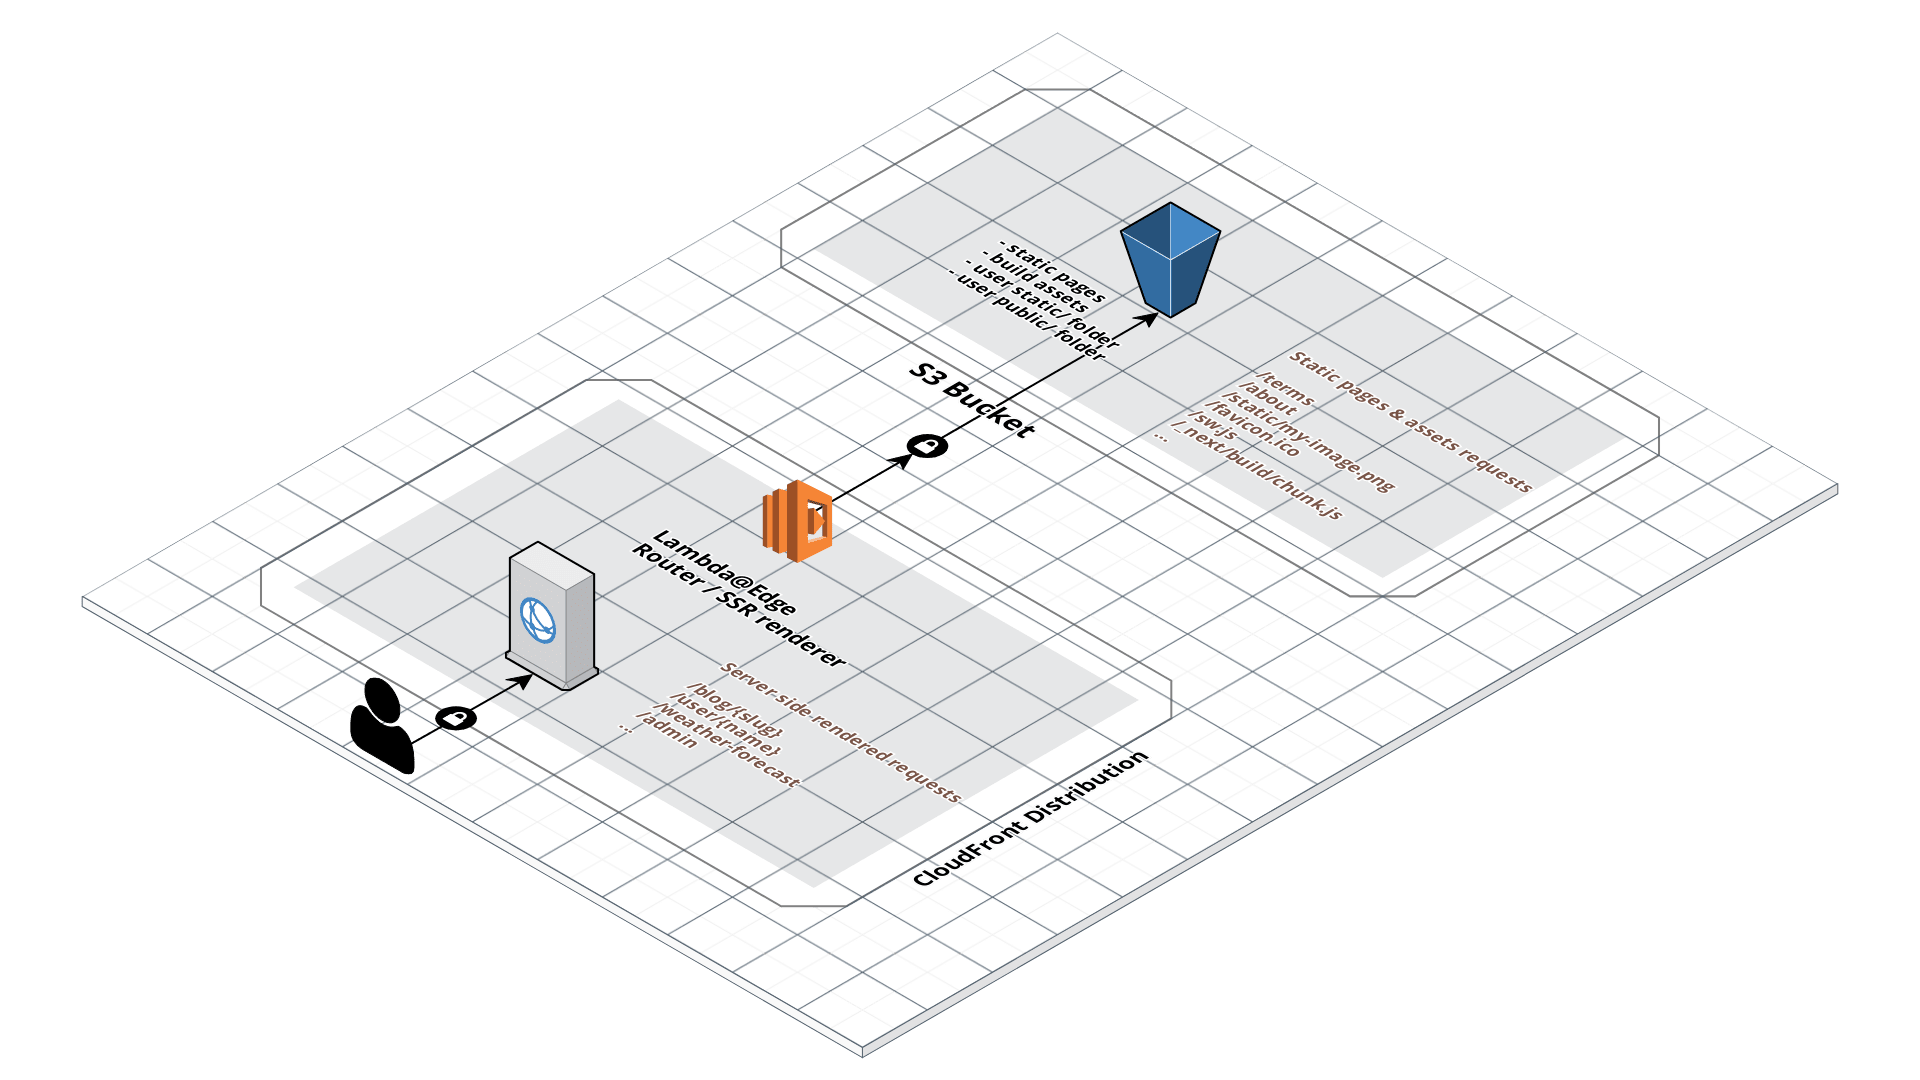
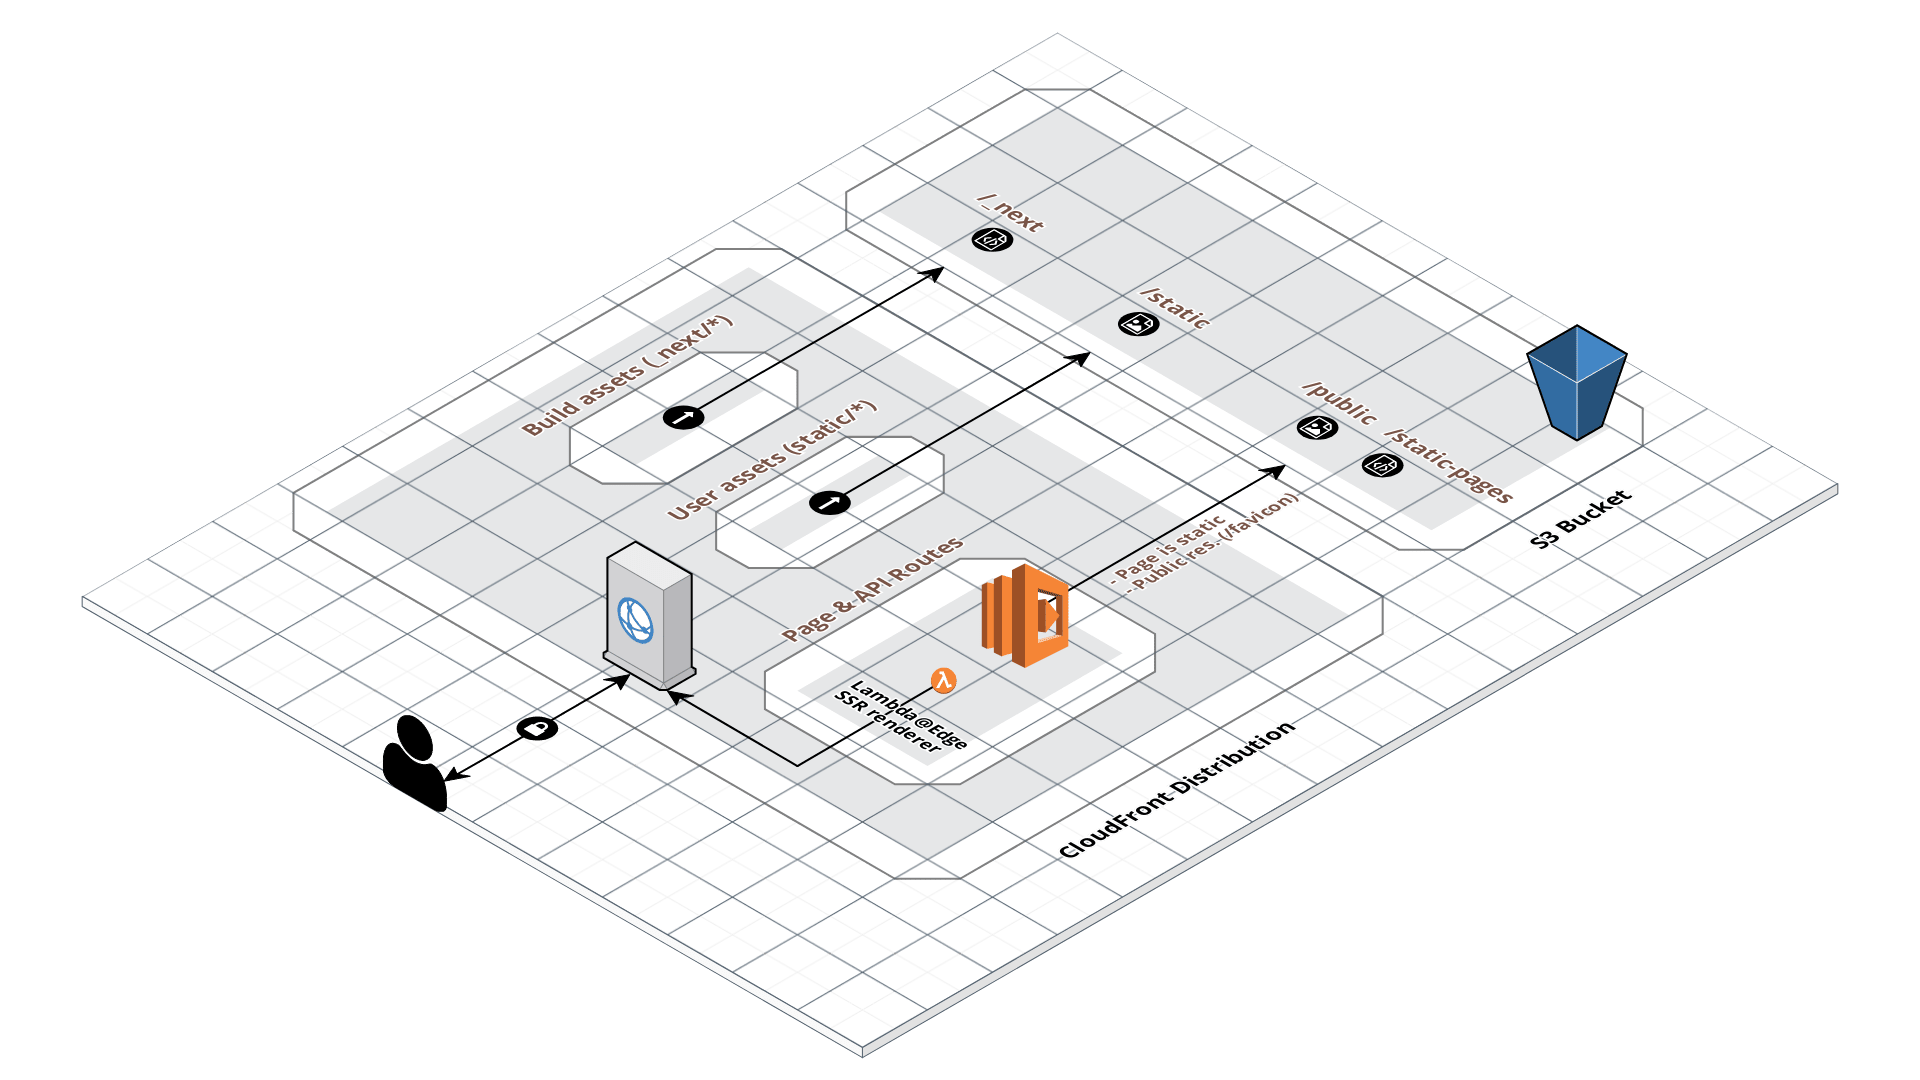
docs(nextjs-component): update arch and add more detail

Changed region(s): [[0.1562, 0.1833, 0.875, 0.825]]

diff --git a/packages/serverless-nextjs-component/README.md b/packages/serverless-nextjs-component/README.md
@@ -95,9 +95,19 @@ myNextApplication:
 
 ### Architecture
 
-The application architecture deployed by the component is the following with minor variations:
-
 ![architecture](./arch.png)
+
+Three Cache Behaviours are created in CloudFront.
+
+The first two `_next/*` and `static/*` forward the requests to S3.
+
+The 3rd. is associated to a lambda function which is responsible for handling three types of requests.
+
+- Server side rendered page. Any page that defines getInitialPropsmethod will be rendered at this level and the response is returned immediately to the user.
+- Statically optimised page. Requests to pages that were pre-compiled by next to HTML are forwarded to S3 where the HTML is stored.
+- Public resources. These are requests to root level resources like /robots.txt, /favicon.ico, /manifest.jsonetc. These are also forwarded to S3 where these resources can be found.
+
+The reason why 2. and 3. have to go through Lambda@Edge first is because these routes don't conform to a pattern like `_next/*` or `static/*`. Also, one cache behaviour per route is a bad idea because CloudFront only allows [25 per distribution](https://docs.aws.amazon.com/AmazonCloudFront/latest/DeveloperGuide/cloudfront-limits.html#limits-web-distributions).
 
 ### FAQ
 
